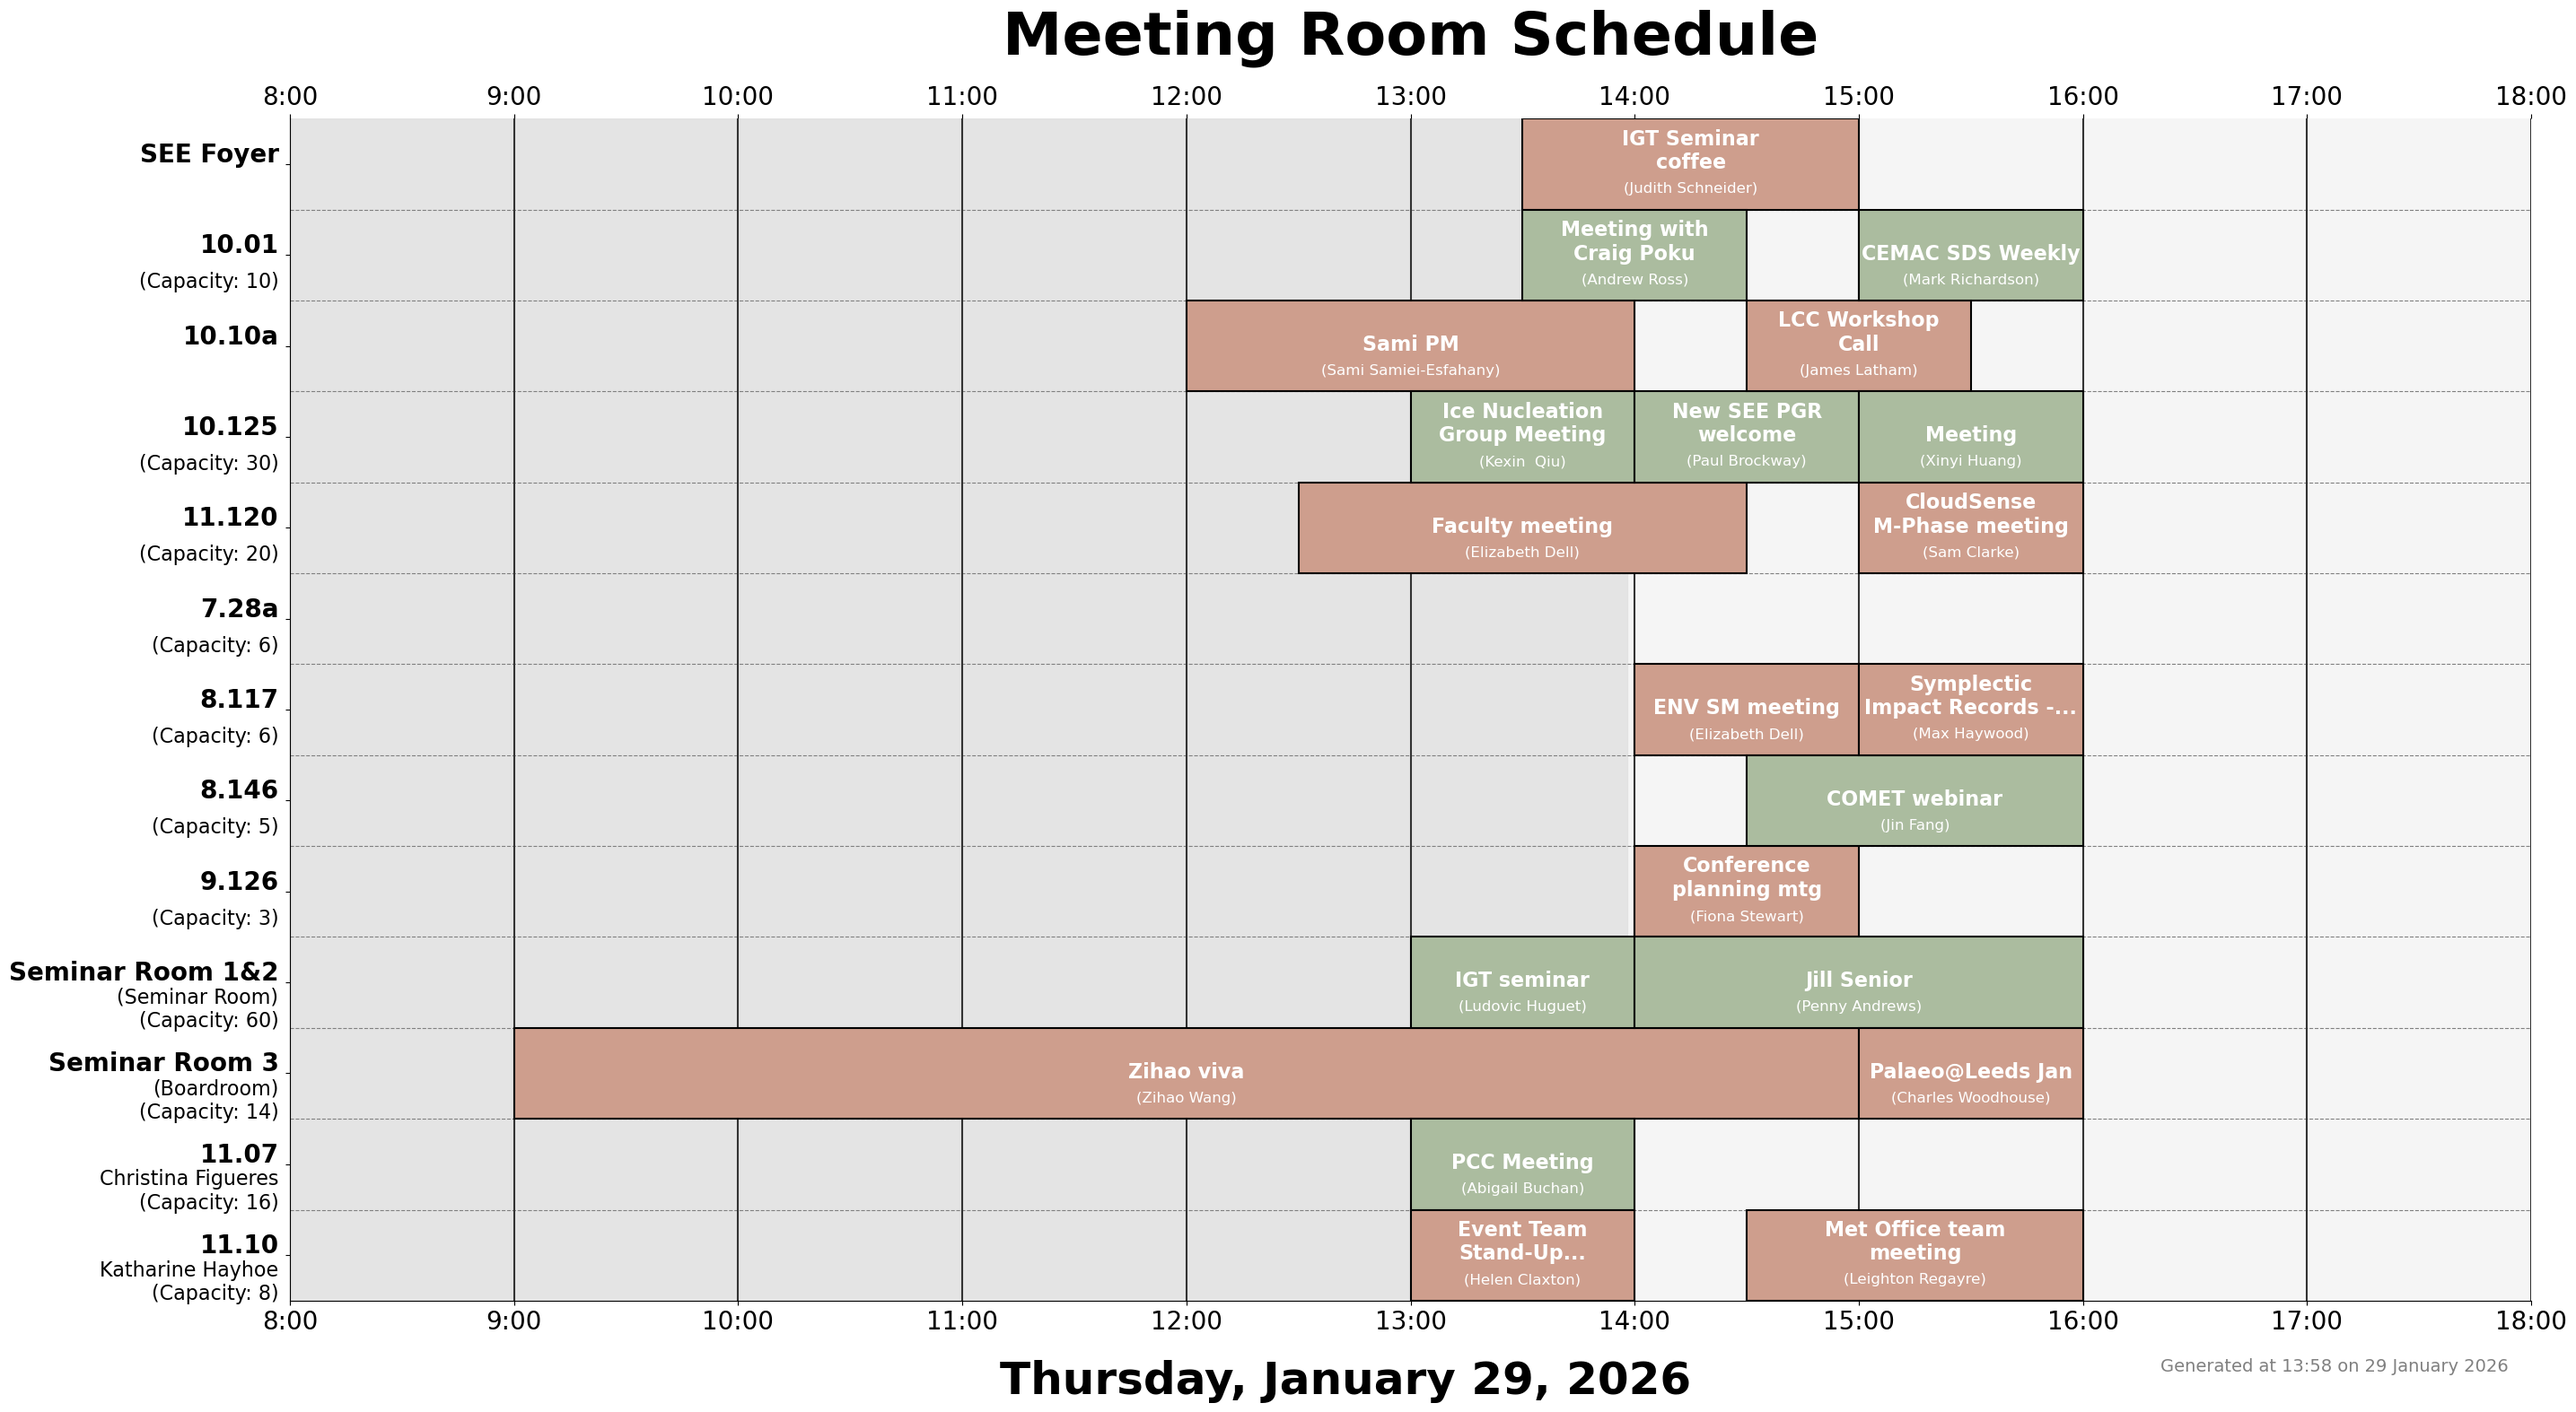
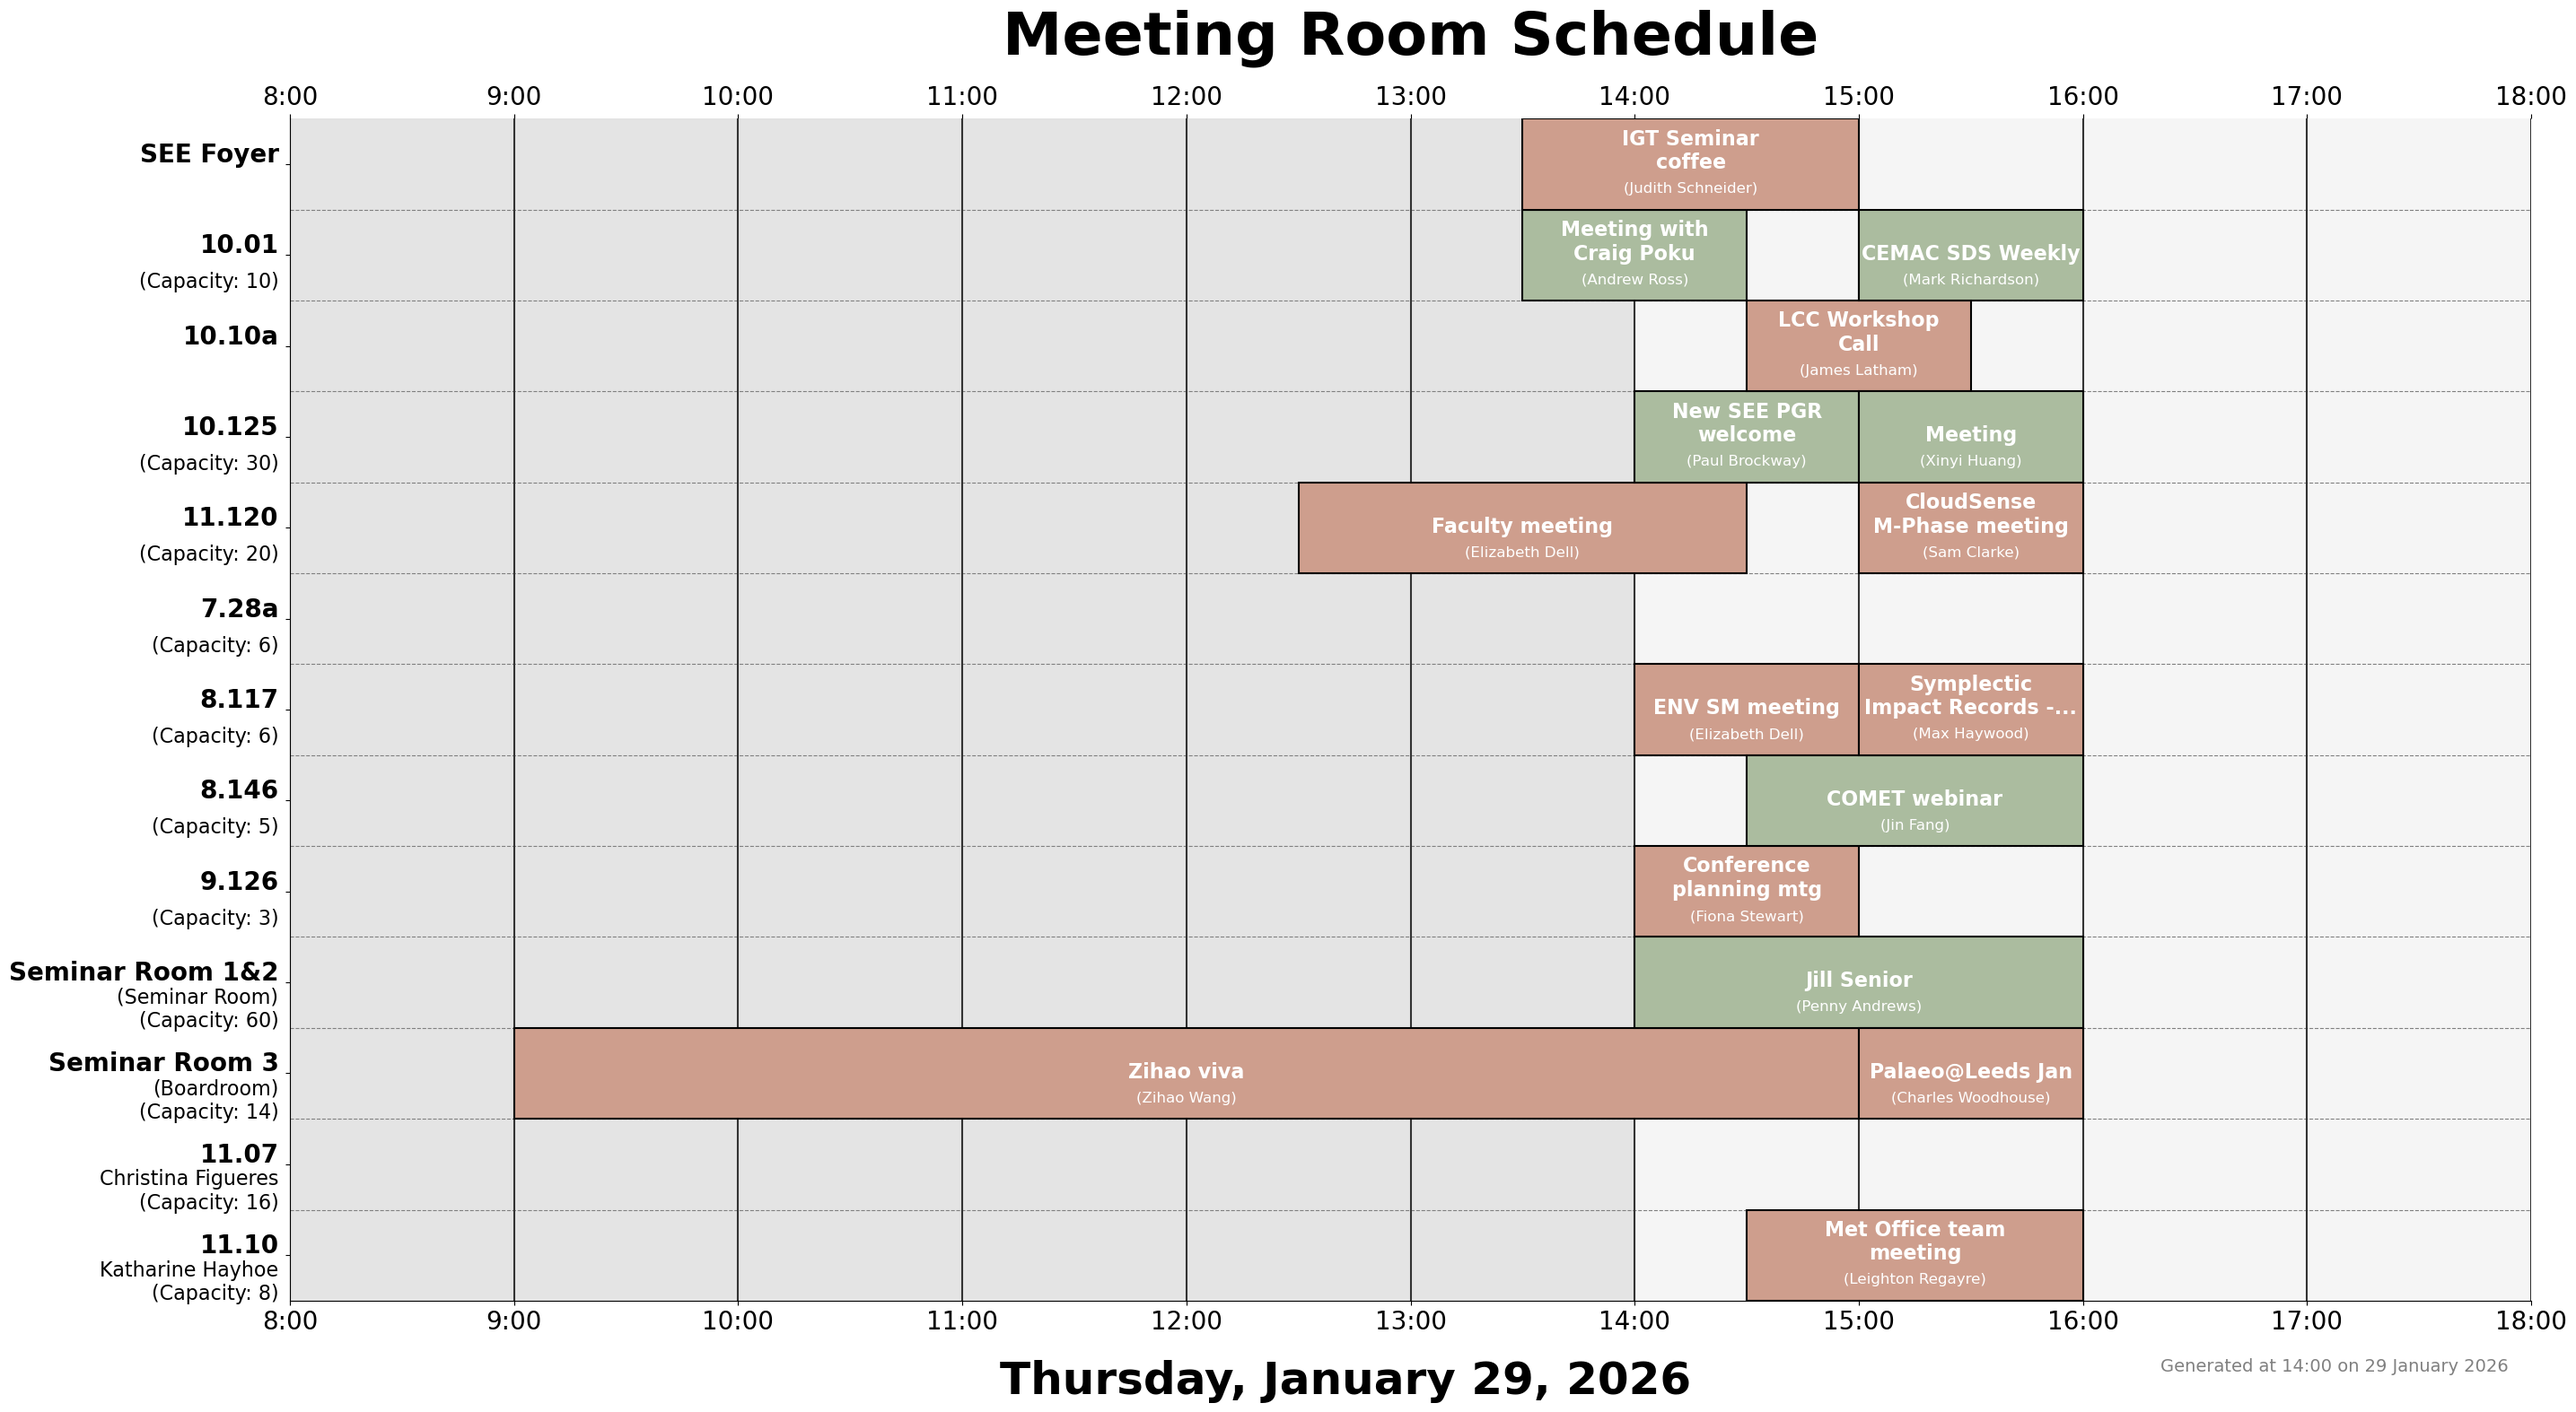
Auto-update schedule: 2026-01-29 14:00

Changed region(s): [[0.4341, 0.1868, 0.6512, 0.3424], [0.5272, 0.7783, 0.6512, 0.9339], [0.5272, 0.6537, 0.6512, 0.7471]]

diff --git a/index.html b/index.html
@@ -1,0 +1,23 @@
+
+<html>
+<head>
+  <title>My Daily Schedule</title>
+  <style>
+    body, html {
+      margin: 0;
+      padding: 0;
+      height: 100%;
+      overflow: hidden;
+      /* CSS for the background image */
+      background-image: url('la_daily_schedule.png?ben');
+      background-repeat: no-repeat;
+      background-position: center center;
+      background-attachment: fixed;
+      /* Change the background-size to 'contain' */
+      background-size: contain; 
+}
+  </style>
+</head>
+<body>
+</body>
+</html>
